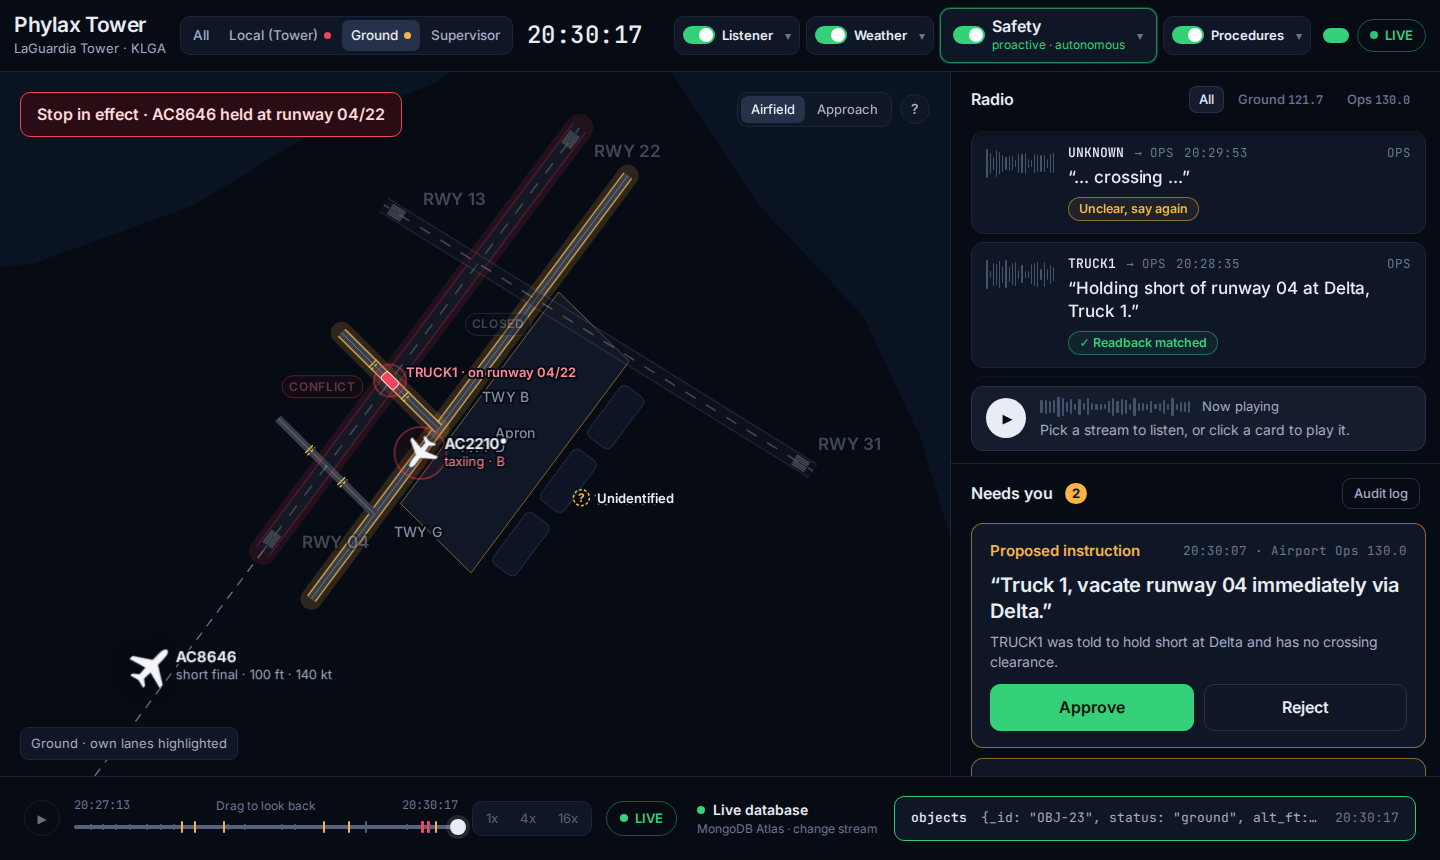
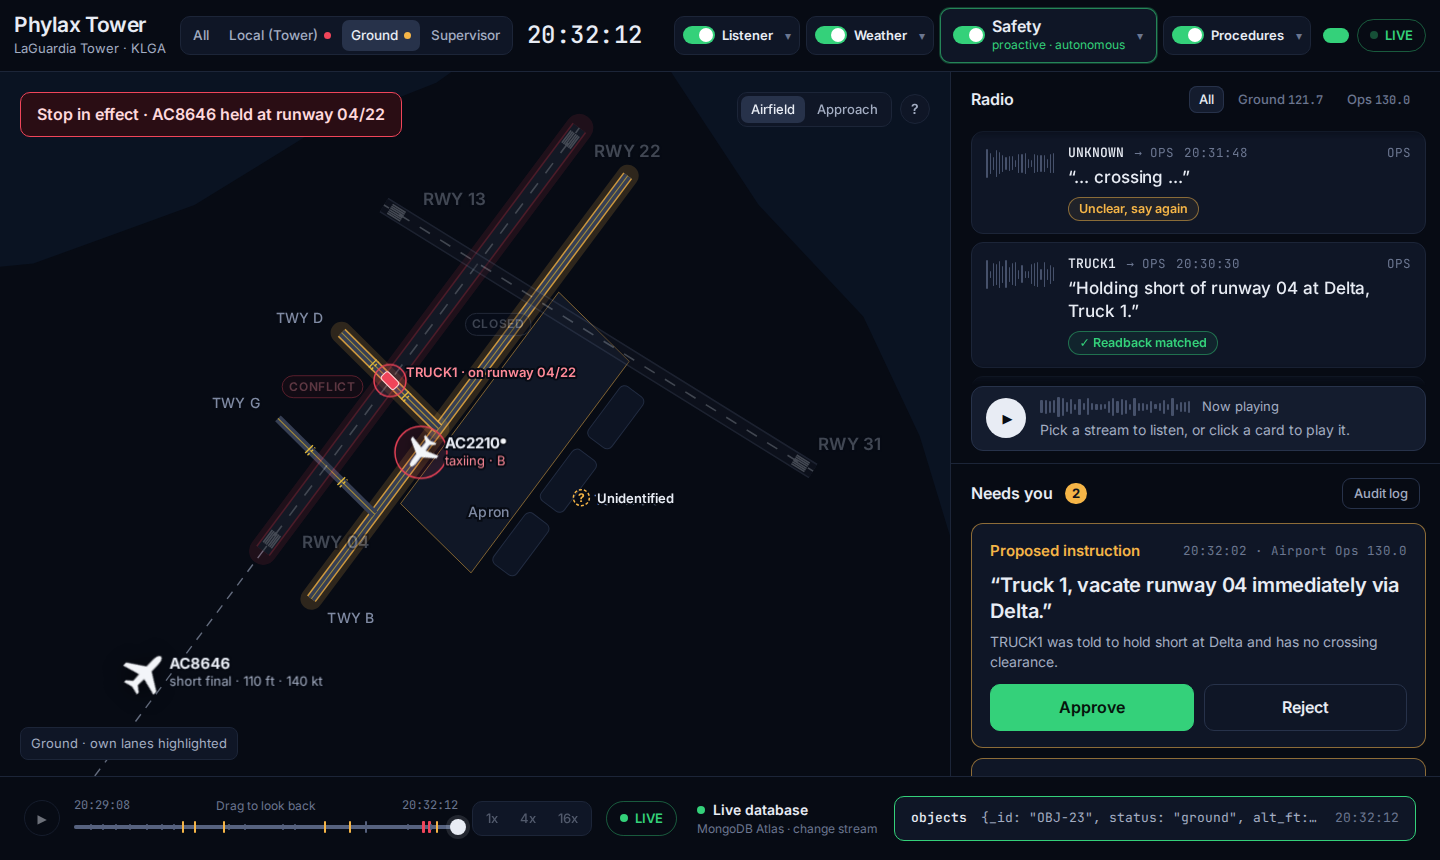
Visualizer redesign: map label placement, taxiway contrast, final screenshots

diff --git a/visualizer/web/src/components/MapView.tsx b/visualizer/web/src/components/MapView.tsx
@@ -372,10 +372,9 @@ function LaneLabel({ lane, status, px, far, dim, scale }: { lane: Lane; status?:
       }
       chip = [a[0] + (b[0] - a[0]) * 0.34 - nx * (off + 34), a[1] + (b[1] - a[1]) * 0.34 - ny * (off + 8)];
     } else {
-      const lo = a[1] > b[1] ? a : b;
-      const s = a[1] > b[1] ? -1 : 1;
+      const hi = a[1] < b[1] ? a : b;
       const long = len > 400;
-      const lp: XY = long ? [a[0] + (b[0] - a[0]) * 0.5 + nx * 16, a[1] + (b[1] - a[1]) * 0.5 + ny * 16 + 5] : [lo[0] + s * ux * 16 + 8, lo[1] + s * uy * 16 + 12];
+      const lp: XY = long ? [(a[1] > b[1] ? a : b)[0] + 16, (a[1] > b[1] ? a : b)[1] + 24] : [hi[0] - 66, hi[1] - 10];
       labels.push({ p: lp, t: `TWY ${lane.designators[0]}` });
       chip = [lp[0] + 30, lp[1] + 24];
     }
@@ -384,7 +383,8 @@ function LaneLabel({ lane, status, px, far, dim, scale }: { lane: Lane; status?:
     if (!ring.length) return null;
     const q = ring.slice(0, -1).map(px);
     const cen: XY = [q.reduce((s, v) => s + v[0], 0) / q.length, q.reduce((s, v) => s + v[1], 0) / q.length];
-    labels.push({ p: [cen[0], cen[1] + 5], t: 'Apron', anchor: 'middle' });
+    const lowq = q.reduce((m, v) => (v[1] > m[1] ? v : m), q[0]);
+    labels.push({ p: [cen[0] + (lowq[0] - cen[0]) * 0.6, cen[1] + (lowq[1] - cen[1]) * 0.6], t: 'Apron', anchor: 'middle' });
     chip = [cen[0], cen[1] + 30];
   }
   const text = STATE_META[state].label;

diff --git a/visualizer/web/src/styles.css b/visualizer/web/src/styles.css
@@ -131,10 +131,10 @@ h1, h2, p { margin: 0; }
 .quiet-label { fill: #aeb7c9; font-size: 17px; font-weight: 600; letter-spacing: 0.01em; paint-order: stroke; stroke: var(--bg); stroke-width: 4px; }
 .quiet-label.small { font-size: 14px; fill: #7f8aa3; font-weight: 500; }
 .lane-body { stroke: #2b3242; stroke-linecap: butt; transition: stroke 0.3s; }
-.lane-taxiway .lane-body { stroke: #1b2231; }
+.lane-taxiway .lane-body { stroke: #222a3a; }
 .lane-poly { fill: #101726; stroke: #1b2435; stroke-width: 1; }
 .rwy-center { stroke: #c9cfdb; stroke-width: 1.6; opacity: 0.85; }
-.twy-center { stroke: #c9a227; stroke-width: 1; opacity: 0.55; }
+.twy-center { stroke: #d4ad2e; stroke-width: 1.1; opacity: 0.7; }
 .thr line { stroke: #c9cfdb; stroke-width: 1.6; opacity: 0.9; }
 .holdpoint line { stroke: #e0b83a; stroke-width: 1.4; }
 .lane-glow { stroke: transparent; stroke-linecap: round; opacity: 0.16; }

diff --git a/visualizer/web/src/App.tsx b/visualizer/web/src/App.tsx
@@ -180,7 +180,7 @@ export default function App() {
       (m) => {
         setLiveSnap((s) => applyLive(s, m));
         const ev = dbLine(m);
-        if (ev) setDbEvent((p) => (ev.coll === 'objects' && p && p.coll !== 'objects' && Date.now() - p.at < 6000 ? p : { ...ev, n: (p?.n ?? 0) + 1 }));
+        if (ev) setDbEvent((p) => (ev.coll === 'objects' && p && p.coll !== 'objects' && Date.now() - p.at < 12000 ? p : { ...ev, n: (p?.n ?? 0) + 1 }));
         if (m.type === 'transmission' && modeRef.current === 'live' && soloRef.current !== 'all') {
           const t = m.doc as Transmission;
           if (t.stream_id === soloRef.current && t.clip_id && t.audio_id) enqueue({ clipId: t.clip_id, label: txLabel(t) });
